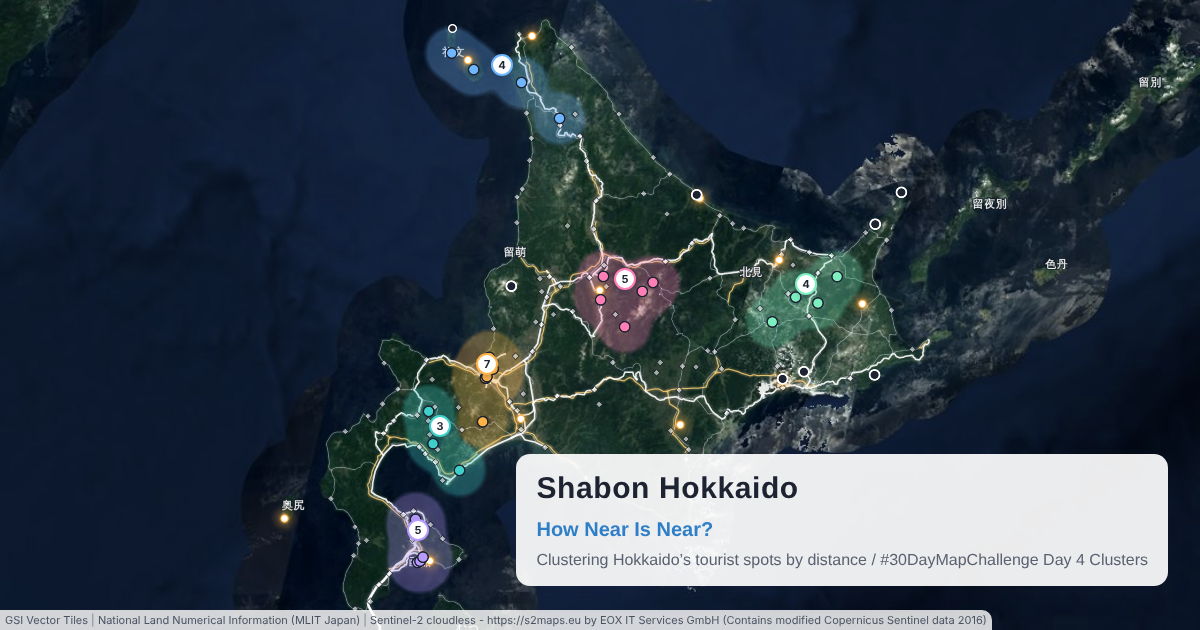
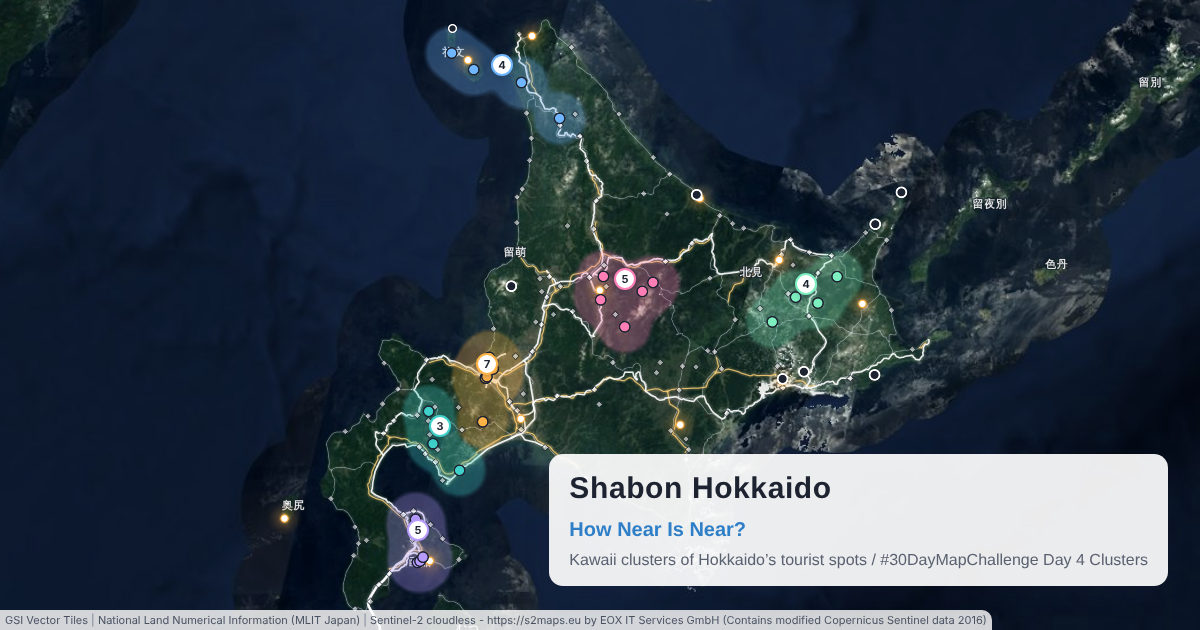
副題・凡例・説明・プレビュー画像を「kawaii クラスター（しゃぼん玉）」の表現にそろえた

Changed region(s): [[0.4317, 0.7238, 0.74, 0.9349]]

diff --git a/src/components/parts.tsx b/src/components/parts.tsx
@@ -239,7 +239,7 @@ function AboutJa({ data }: { data: LoadedData }) {
             まとまりは DBSCAN（密度にもとづくクラスタリング）で求めています。「近所とみなす距離」以内に「何地点から集まりと呼ぶ？」以上の地点（その地点自身を含む）があれば中心となり、中心から距離内の地点を同じまとまりに加えます。距離は Haversine 式による地表の直線距離です。
           </li>
           <li>近い点が連なると、端から端までが設定距離より長いまとまりもできます。設定距離は直径でも移動時間でもありません。</li>
-          <li>ズームでは分類は変わりません。色のにじみは、まとまりに入った各地点のまわりに「近所とみなす距離」の半分の範囲を描いたもので、分類の後に描いています。にじみが重なるのは、おおむね地点どうしが設定距離以内のときです。海や山にかかることもあり、にじみの範囲をすべて巡れるという意味ではありません。</li>
+          <li>ズームでは分類は変わりません。しゃぼん玉は、まとまりに入った各地点のまわりに「近所とみなす距離」の半分の範囲を描いたもので、分類の後に描いています。しゃぼん玉どうしが触れるのは、おおむね地点どうしが設定距離以内のときです。海や山にかかることもあり、しゃぼん玉の範囲をすべて巡れるという意味ではありません。</li>
           <li>鉄道は国土数値情報（鉄道時系列、2025年度版・非商用）を Day1 作品「駅のあった北海道」で加工したデータです。2025年末時点で営業中の路線と駅を示し、「廃止された路線」では1950年以降に営業していた区間を破線で重ねます。駅は拡大すると表示されます。</li>
           <li>空港は国土数値情報（空港、2021年）の標点位置です。供用中の空港を光らせ、休止中は白抜きで示します。まとまりの計算には含めていません。</li>
           <li>道の駅は2018年時点の登録を重ねた参考情報で、まとまりの計算には含めていません。道路は地理院ベクトルタイルの道路中心線（高速・国道・道道など）です。</li>
@@ -318,8 +318,8 @@ function AboutEn({ data }: { data: LoadedData }) {
           </li>
           <li>Spots in a chain can form a cluster longer than the set distance. The distance is neither a diameter nor a travel time.</li>
           <li>
-            Zooming does not change the clusters. The colored glow is drawn after clustering, as half the set distance around each member spot, so glows touch
-            roughly when spots are within the set distance. A glow may cover sea or mountains; it does not mean the whole area can be visited.
+            Zooming does not change the clusters. Each soap bubble is drawn after clustering, as half the set distance around each member spot, so bubbles touch
+            roughly when spots are within the set distance. A bubble may cover sea or mountains; it does not mean the whole area can be visited.
           </li>
           <li>
             Railways are from the NLNI Railway Time Series (FY2025, non-commercial), processed in the Day 1 map “Where the Stations Were”. They show lines and stations

diff --git a/src/i18n.ts b/src/i18n.ts
@@ -71,7 +71,7 @@ const STATUS_EN: Record<string, string> = { 供用中: 'In service', 休止中: 
 export const airportStatus = (s: string, lang: Lang) => (lang === 'en' ? STATUS_EN[s] ?? s : s);
 
 const en = {
-  subtitle: 'Clustering Hokkaido’s tourist spots by distance',
+  subtitle: 'Kawaii clusters of Hokkaido’s tourist spots',
   feature: 'Feature: ',
   openGuide: 'Open the guide',
   guideTitle: 'Guide',
@@ -137,7 +137,7 @@ const en = {
     about: 'About this map and data',
   },
   legend: 'Legend',
-  legendClusters: 'Clusters (colored glow)',
+  legendClusters: 'Clusters (soap bubbles)',
   legendIsolated: 'Isolated spots',
   legendPoints: 'Tourism resources',
   distanceLabel: 'How near is near?',
@@ -149,7 +149,7 @@ const en = {
   guideSteps: [
     {
       title: 'What areas appear when you cluster?',
-      body: 'Nearby tourist spots are grouped by colored glows. Pick a glow, or open the list from this counter, to see how many spots it has and what kinds.',
+      body: 'Nearby tourist spots are grouped into soap bubbles. Pick a bubble, or open the list from this counter, to see how many spots it has and what kinds.',
     },
     {
       title: 'How far do clusters reach as you widen the distance?',
@@ -234,7 +234,7 @@ const en = {
 type Dict = typeof en;
 
 const ja: Dict = {
-  subtitle: '北海道の観光地を、距離でまとめる地図',
+  subtitle: '北海道の観光地の kawaii クラスター',
   feature: '特集：',
   openGuide: '操作ガイドを開く',
   guideTitle: '操作ガイド',
@@ -300,7 +300,7 @@ const ja: Dict = {
     about: 'この地図とデータについて',
   },
   legend: '凡例',
-  legendClusters: 'まとまり（色のにじみ）',
+  legendClusters: 'まとまり（しゃぼん玉）',
   legendIsolated: '孤立点',
   legendPoints: '観光資源',
   distanceLabel: '近所とみなす距離',
@@ -311,7 +311,7 @@ const ja: Dict = {
   guideSteps: [
     {
       title: 'まとめると、どんなエリアが見える？',
-      body: '近い観光資源どうしを、色のにじみでまとめています。にじみか、ここ（件数の札）から開く一覧を選ぶと、地点数や種別の内訳が出ます。',
+      body: '近い観光資源どうしを、しゃぼん玉でまとめています。しゃぼん玉か、ここ（件数の札）から開く一覧を選ぶと、地点数や種別の内訳が出ます。',
     },
     {
       title: '距離を広げると、どこまでまとまる？',

diff --git a/index.html b/index.html
@@ -7,7 +7,7 @@
     <meta name="theme-color" content="#ffffff" />
     <meta property="og:type" content="website" />
     <meta property="og:title" content="Shabon Hokkaido — How Near Is Near?" />
-    <meta property="og:description" content="How Near Is Near? Clustering Hokkaido’s tourist spots by distance — clusters merge and split like soap bubbles. #30DayMapChallenge 2026 Day 4 Clusters" />
+    <meta property="og:description" content="How Near Is Near? Kawaii clusters of Hokkaido’s tourist spots — each cluster is a soap bubble that merges and splits as you change what counts as near. #30DayMapChallenge 2026 Day 4 Clusters" />
     <meta property="og:url" content="https://shinyanakashima.github.io/30daymapchallenge-2026day4-clusters/" />
     <meta property="og:image" content="https://shinyanakashima.github.io/30daymapchallenge-2026day4-clusters/og.png" />
     <meta property="og:image:width" content="1200" />

diff --git a/README.md b/README.md
@@ -1,6 +1,6 @@
 # Shabon Hokkaido — How Near Is Near?
 
-北海道の観光地を、距離でまとめる地図。画面は英語が標準で、日本語にも切り替えられる（タイトルの札の EN／日本語、URL `lang=ja`、選んだ言語はブラウザに保存）。観光地名・自治体名はデータの原文（日本語）のまま、種別名は英訳を用意した（`src/i18n.ts`）。
+北海道の観光地を、距離でまとめる地図。まとまりをしゃぼん玉として描く「kawaii クラスター」（英語では kawaii clusters）が特徴。画面は英語が標準で、日本語にも切り替えられる（タイトルの札の EN／日本語、URL `lang=ja`、選んだ言語はブラウザに保存）。観光地名・自治体名はデータの原文（日本語）のまま、種別名は英訳を用意した（`src/i18n.ts`）。
 
 30DayMapChallenge 2026 Day4「Clusters」の作品。北海道の観光資源を地理的な距離でグループ化し、短い操作ガイドと自由な操作で「まとまり」を探す静的 Web アプリ。
 
@@ -99,7 +99,7 @@
 - 入力 ID を昇順に並べて探索するため、同じデータ・条件なら同じ結果になる。境界点は昇順探索で最初に到達したクラスタに入る
 - 全点間距離は起動時に 1 回だけ計算して行列にキャッシュ（35 点なので空間索引や Web Worker は不要と判断）
 - 距離の変更は 90ms のデバウンスと最新要求 ID で処理し、古い結果で画面を上書きしない
-- まとまりは「にじみ」で表す。分類後、各メンバー点のまわりに半径 ε/2 のにじみを MapLibre の heatmap レイヤ（色ごとに 1 枚）で描き、濃度の閾値付近で縁をぼかして塗る（輪郭線は描かない）。2 点のにじみはおおむね距離 ε 以内で重なるので、見た目のつながりが「近所」の意味と対応する。孤立点にはにじみを付けない。海・山にかかることがあり、範囲内すべてを巡れる意味ではない（`src/blob.ts`）
+- まとまりは「しゃぼん玉」（画面の呼び方。英語では soap bubbles / kawaii clusters）で表す。分類後、各メンバー点のまわりに半径 ε/2 のにじみを MapLibre の heatmap レイヤ（色ごとに 1 枚）で描き、濃度の閾値付近で縁をぼかして塗る（輪郭線は描かない）。2 点のにじみはおおむね距離 ε 以内で重なるので、見た目のつながりが「近所」の意味と対応する。孤立点にはにじみを付けない。海・山にかかることがあり、範囲内すべてを巡れる意味ではない（`src/blob.ts`）
 - 色は前回とのメンバーの重なりで引き継ぐ（分裂は最大の子、合流は最大の寄与元）。初期表示・共有 URL ではメンバー由来の安定色。色は識別の補助で、同一性は保証しない
 
 ### 採用した初期値
